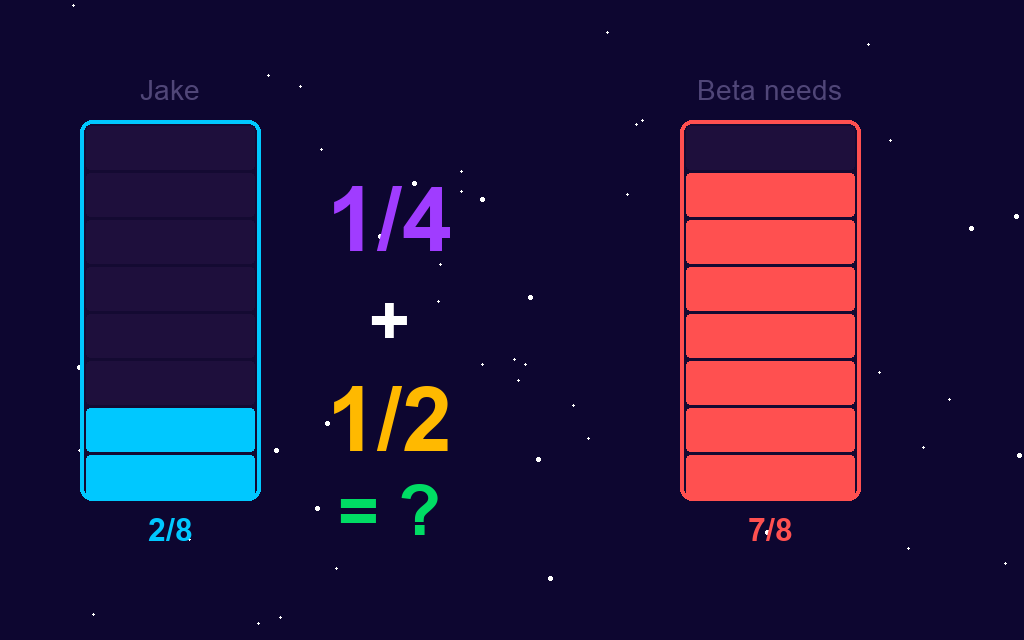
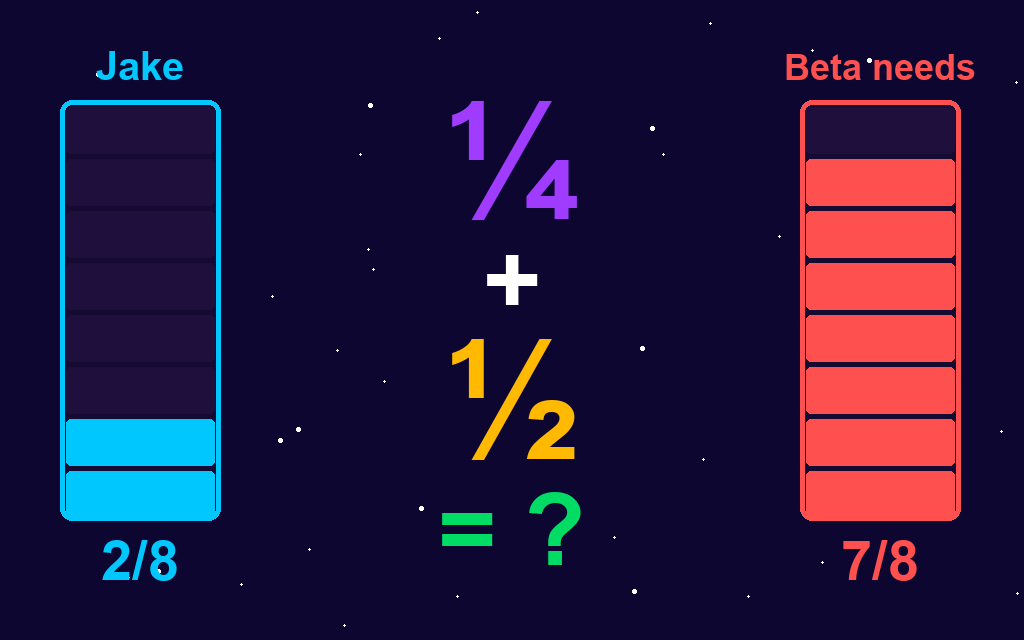
Issue 5: all Pillow images rebuilt at proper scale, Q6 ordering race board, cliffhanger star chart image

diff --git a/issue-005-narrated.html b/issue-005-narrated.html
@@ -528,7 +528,7 @@
   <div id="cliffhanger-screen" style="display:none;text-align:center;padding:32px 24px 24px;animation:fadeIn 0.6s ease;">
     <div class="issue-label">📖 Issue #5 — Cliffhanger</div>
     <h2 style="font-size:28px;font-weight:900;color:#aa77ff;margin-bottom:20px;line-height:1.3;">The Terminal Opens —<br>The Fraction Core Awaits</h2>
-    <img src="images/ch5-issue005.png" alt="Jake at the open terminal" style="width:100%;border-radius:20px;margin-bottom:24px;border:3px solid rgba(180,100,255,0.5);box-shadow:0 12px 40px rgba(0,0,0,0.7);" />
+    <img src="images/cliffhanger-issue005.png" alt="Star chart terminal — Fraction Core destination circled" style="width:100%;border-radius:20px;margin-bottom:24px;border:3px solid rgba(180,100,255,0.5);box-shadow:0 12px 40px rgba(0,0,0,0.7);" />
     <div style="background:rgba(0,0,0,0.5);border:2px solid rgba(123,47,255,0.5);border-radius:16px;padding:20px 24px;margin-bottom:20px;font-size:18px;line-height:1.9;color:#ddd;text-align:left;">
       The terminal opened. Jake stared at the star chart inside.<br><br>
       One destination was circled in glowing blue light — deep in the heart of the <strong>Zephyr Nebula</strong>. And next to it, a note written in fraction code:<br><br>
